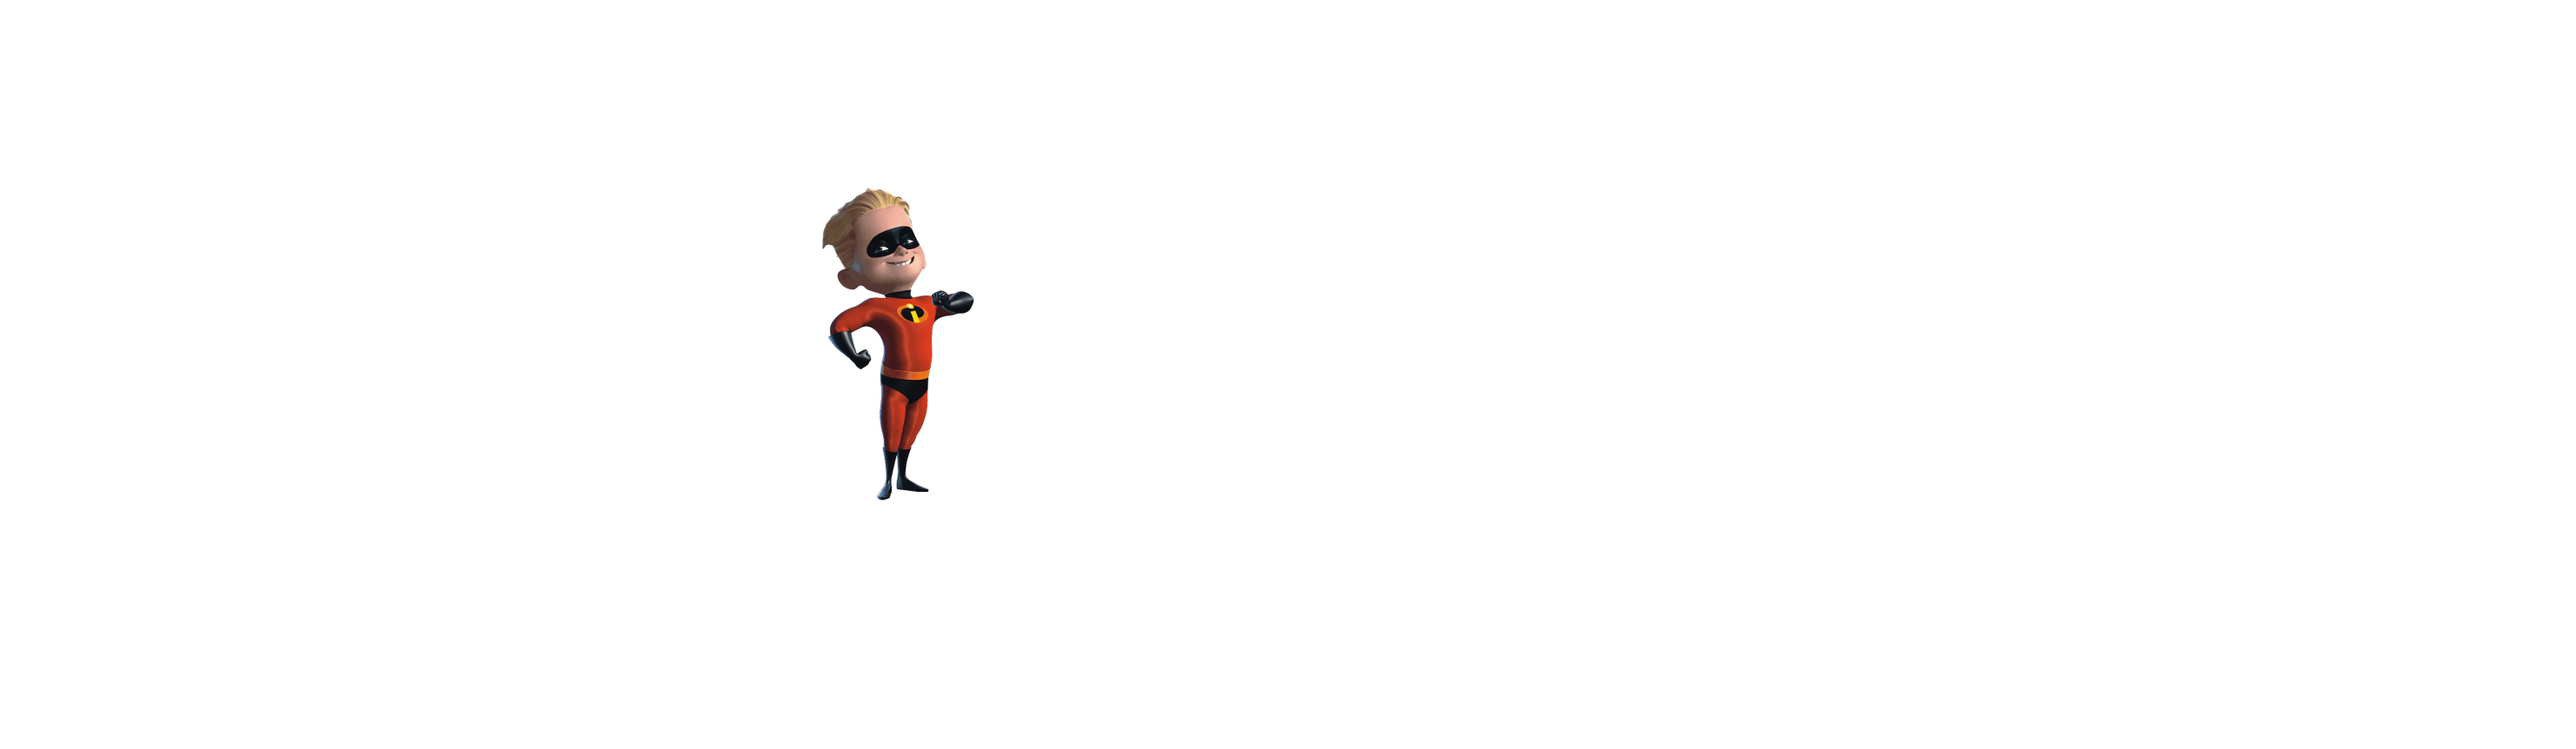
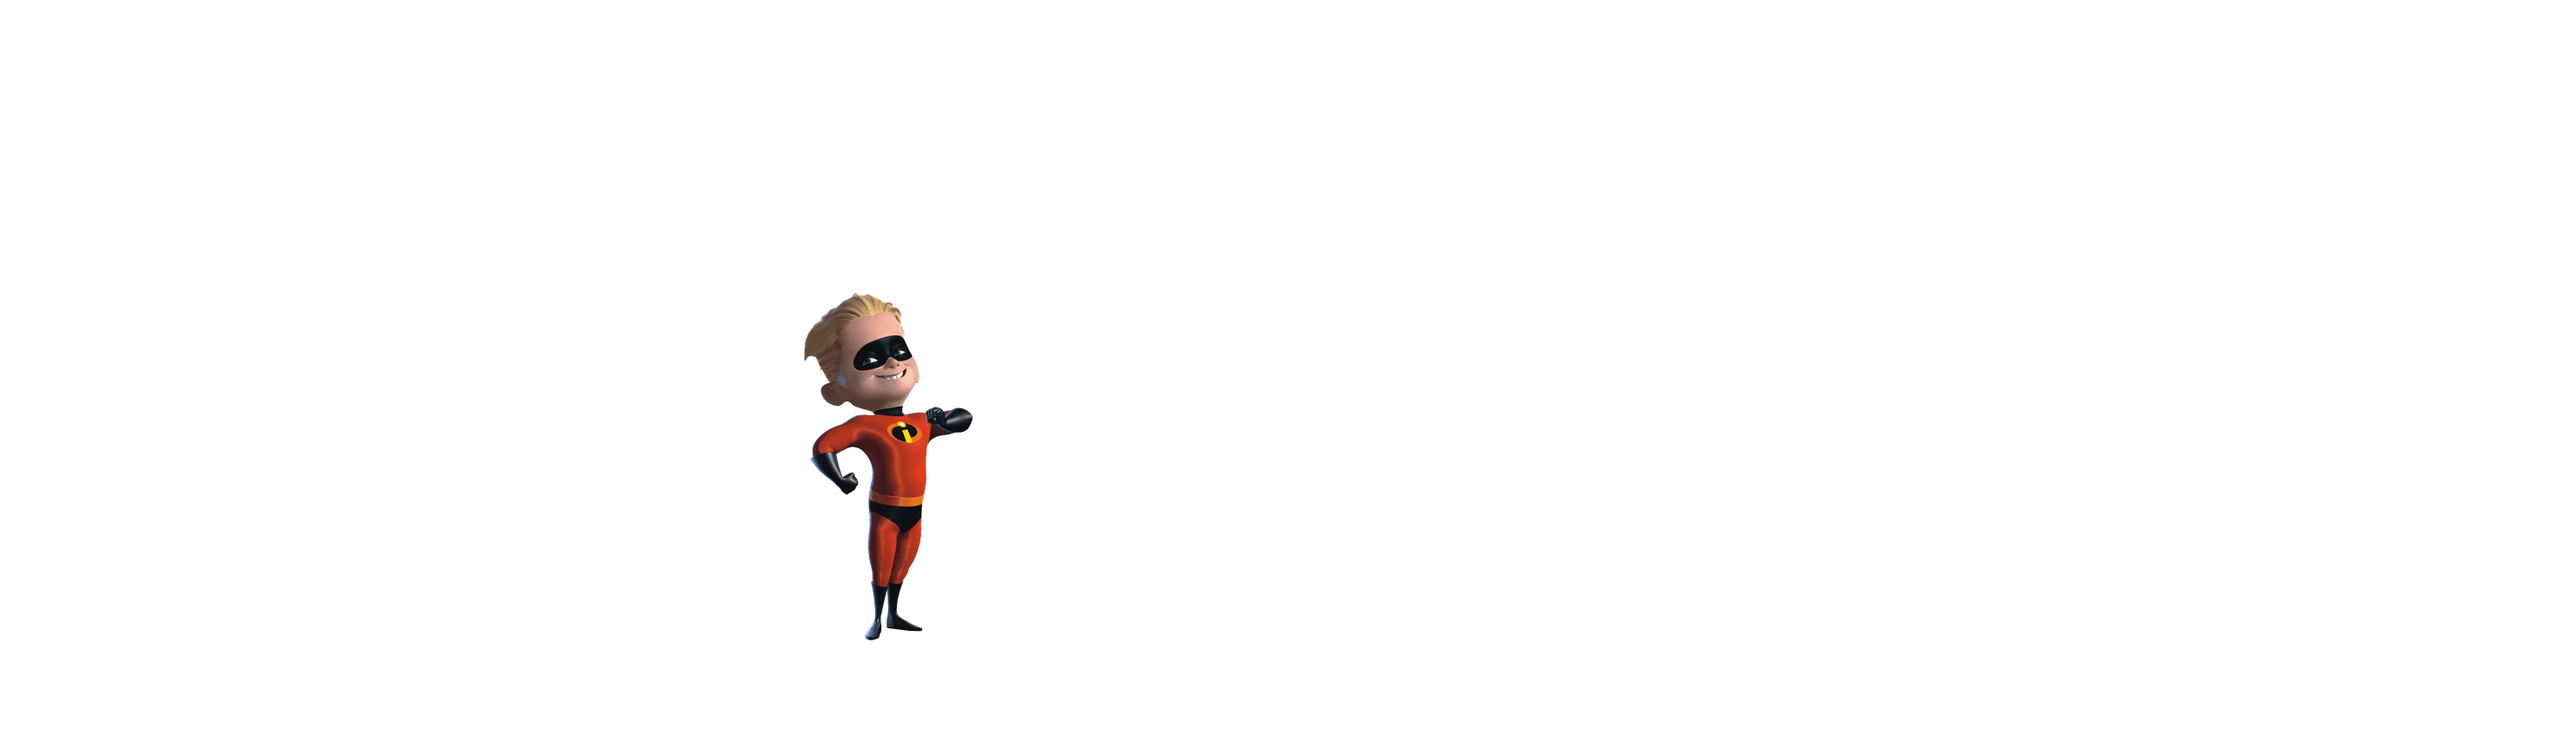
parallax

Changed region(s): [[0.3104, 0.2413, 0.4035, 0.8445]]

diff --git a/Acitivity 9/incredibles-view.html b/Acitivity 9/incredibles-view.html
@@ -20,11 +20,11 @@
         <div class="keyart" id="parallax">
 
             <div class="keyart_layer parallax" id="keyart-0" data-speed="2"></div>
-            <div class="keyart_layer parallax" id="keyart-1" data-speed="5"></div>
-            <div class="keyart_layer parallax" id="keyart-2" data-speed="7"></div>
-            <div class="keyart_layer parallax" id="keyart-3" data-speed="10"></div>
-            <div class="keyart_layer parallax" id="keyart-4" data-speed="15"></div>
-            <div class="keyart_layer parallax" id="keyart-5" data-speed="10"></div>
+            <div class="keyart_layer parallax" id="keyart-1" data-speed="9"></div>
+            <div class="keyart_layer parallax" id="keyart-2" data-speed="11"></div>
+            <div class="keyart_layer parallax" id="keyart-3" data-speed="14"></div>
+            <div class="keyart_layer parallax" id="keyart-4" data-speed="19"></div>
+            <div class="keyart_layer parallax" id="keyart-5" data-speed="14"></div>
             <div class="keyart_layer" id="keyart-8" data-speed="100"></div>
         </div>
     </section>

diff --git a/Acitivity 9/parallax.js b/Acitivity 9/parallax.js
@@ -11,7 +11,7 @@ function castParallax() {
 		for (var i = 0; i < layers.length; i++) {
 			layer = layers[i];
 			speed = layer.getAttribute('data-speed');
-			var yPos = -(top * speed / 100);
+			var yPos = -(top * speed / 60);
 			layer.setAttribute('style', 'transform: translate3d(0px, ' + yPos + 'px, 0px)');
 		}
 	});
